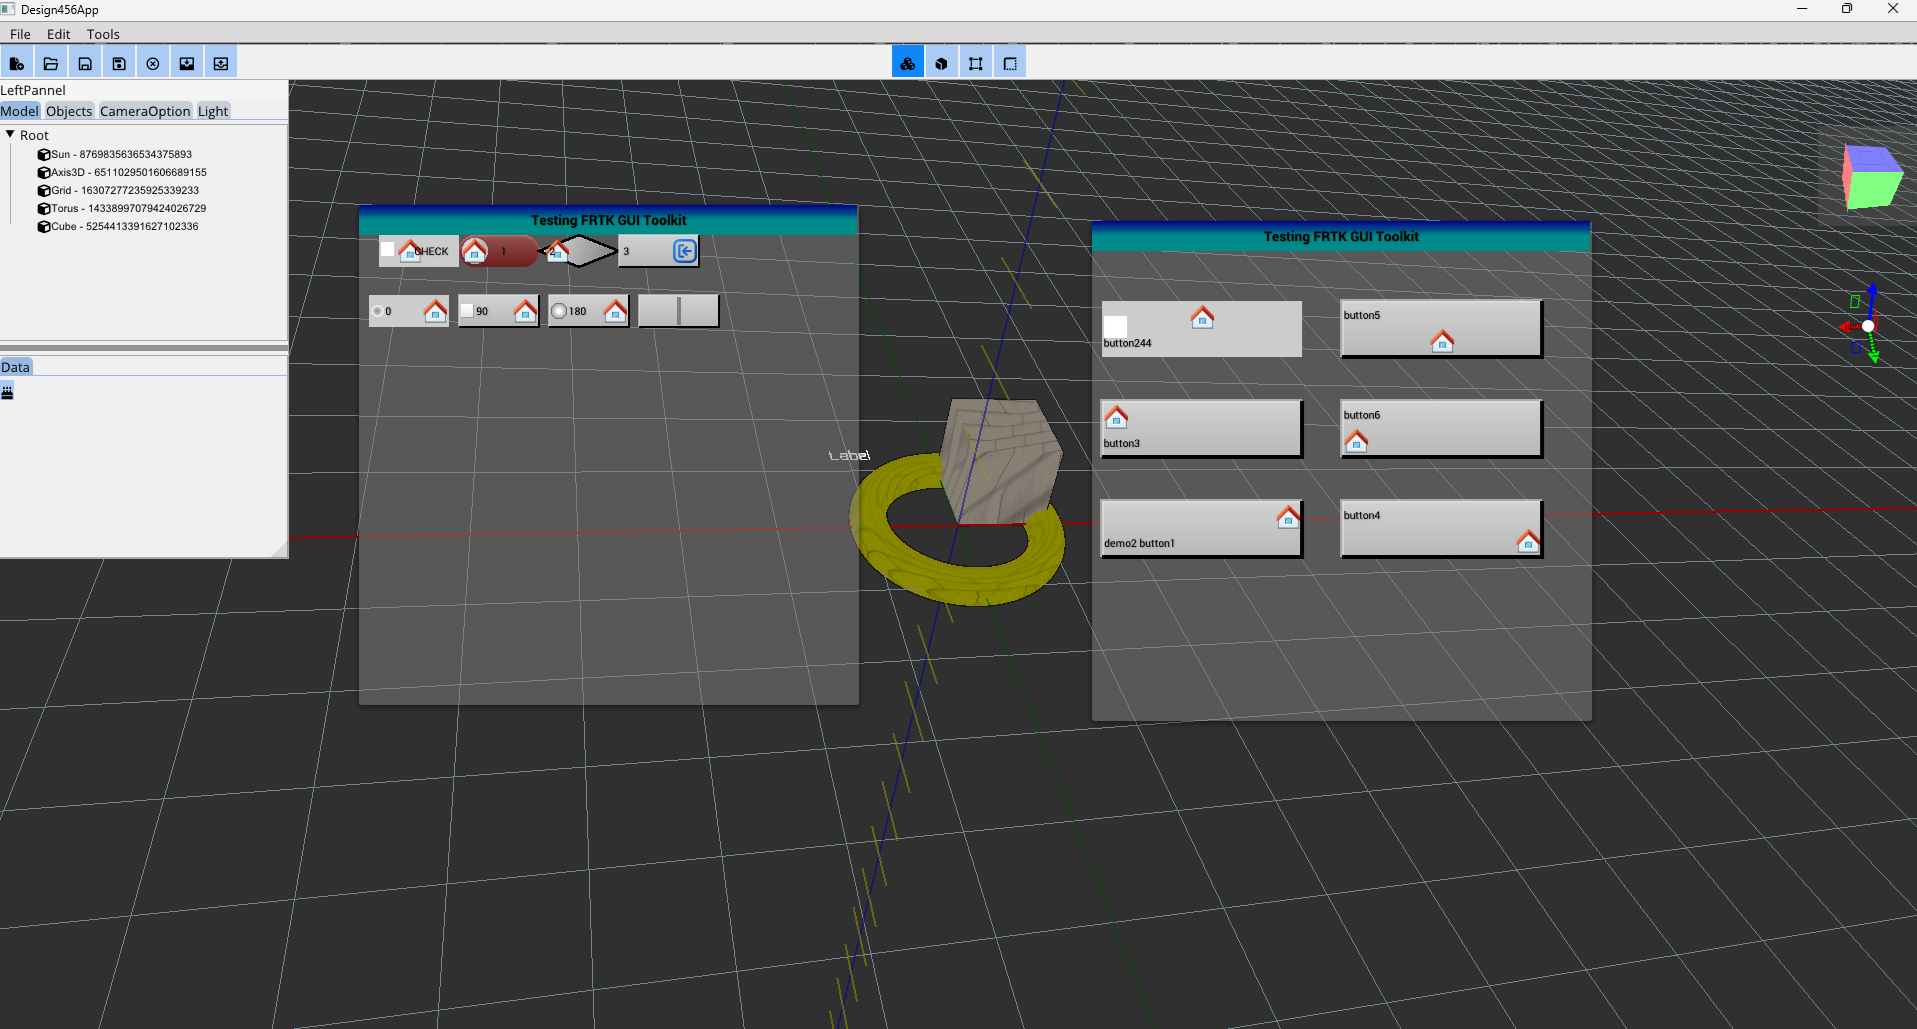
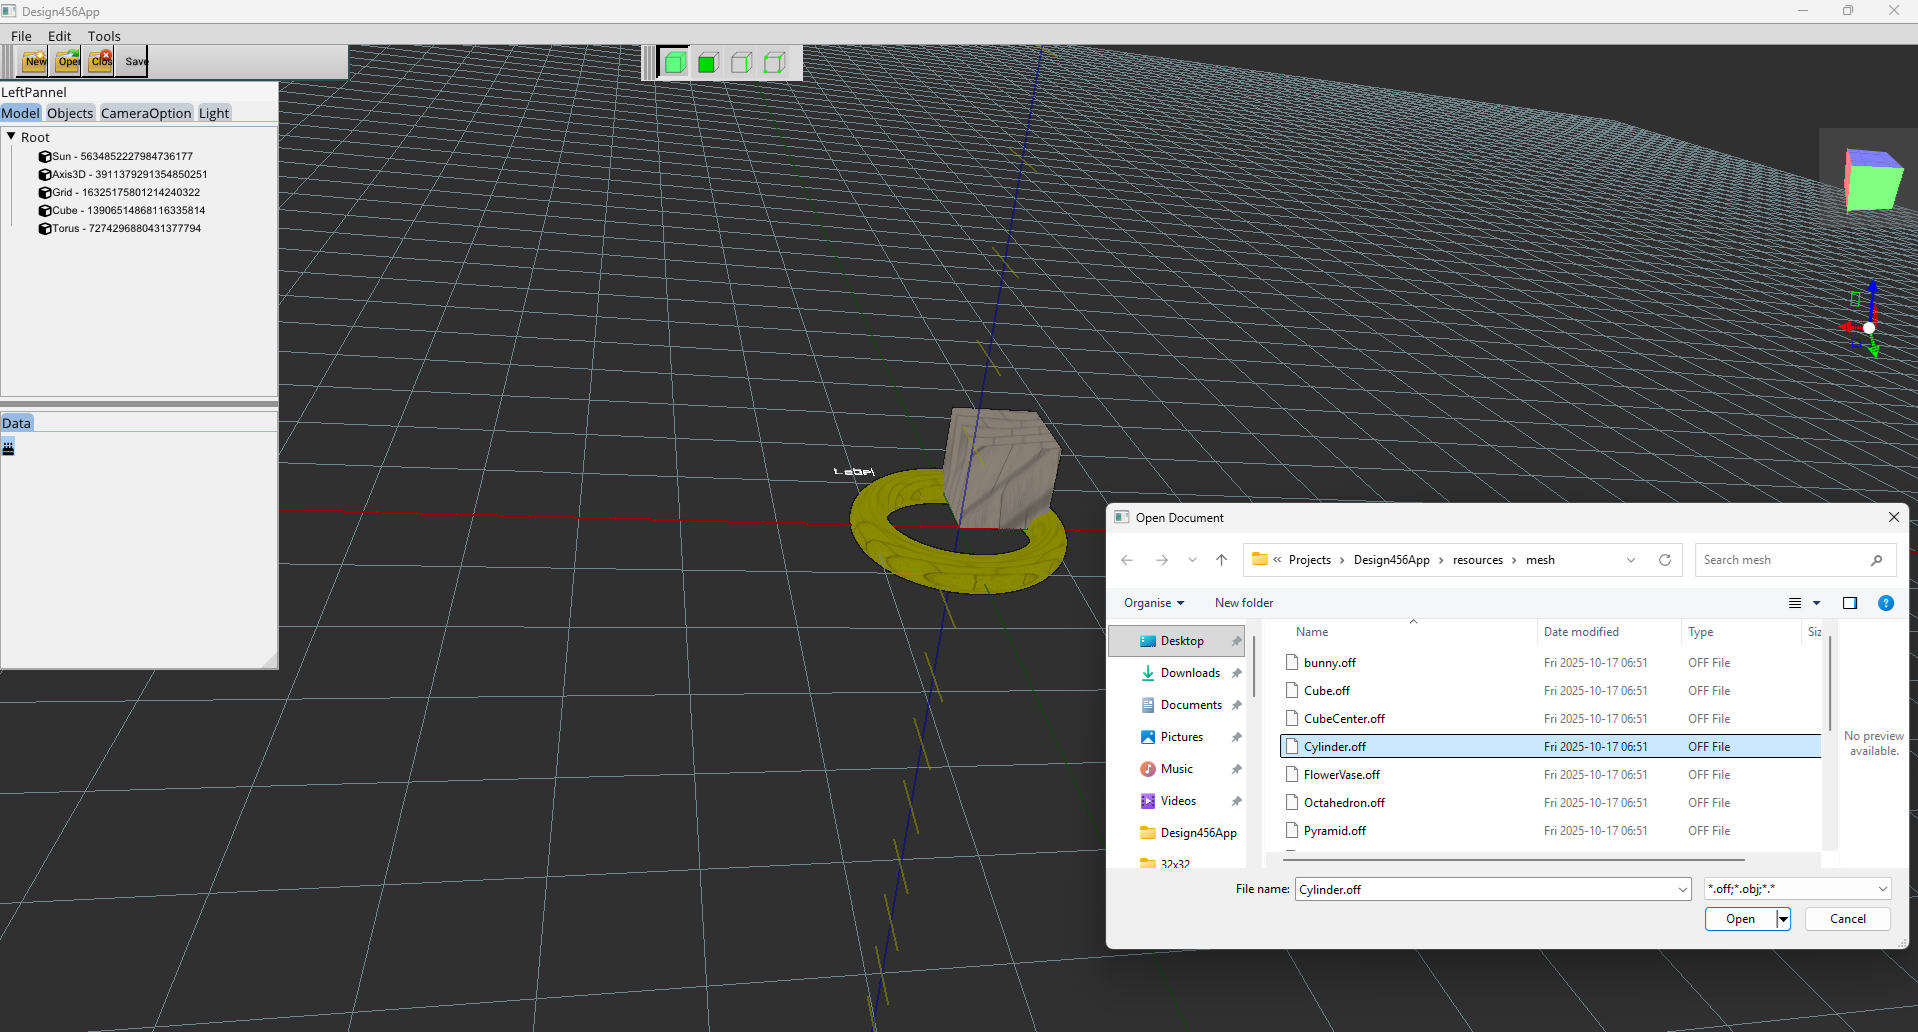
new screenshot, removing im-gui toolbar totally, using new toolbars, new opendialog- Fine tunings still is required

diff --git a/frtk/src/gui_widget/frtk_main_toolbar.cpp b/frtk/src/gui_widget/frtk_main_toolbar.cpp
@@ -31,6 +31,10 @@
 #include <fr_window.h>
 
 namespace FR {
+/*
+                        TOOLBARS CALLBACKS
+
+*/
     void Fr_Window::mainToolbar_callback(size_t index, void* data) {
         std::shared_ptr<Fr_Window> win = Fr_Window::getFr_Window();
         switch (index) {
@@ -94,20 +98,27 @@ namespace FR {
         }
         }
     }
+    //********************************************************************************************************************************************
+
+    /*
+                        TOOLBARS DEFINITIONS
+
+*/
+
     std::shared_ptr<Frtk_ToolBarWin> Fr_Window::createMainToolbar() {
         std::vector<toolbBTN_t> tools1 = {
-        {"New",                                                                                 // std::string lbl
-            "New",                                                                              //std::string name
-            {FRTK_TOOLBAR_BUTTON_HEGHT,FRTK_TOOLBAR_BUTTON_HEGHT},                              //dimSize_float_t size
-                iconPath + "Folder-Create-32x32.png",                                           //std::string icon
-                [this](Frtk_Widget* w) { this->mainToolbar_callback(FR_FILE_NEW); },            //Frtk_Widget::Callback callback_
-                FRTK_UP_BOX,                                                                    //WIDGTYPE boxType
-                "",                                                                             //std::string tooltips;  //not implemented y
+        {"New",                                                                         // std::string lbl
+        "New",                                                                          //std::string name
+        {FRTK_TOOLBAR_BUTTON_HEGHT,FRTK_TOOLBAR_BUTTON_HEGHT},                          //dimSize_float_t size
+        iconPath + "Folder-Create-32x32.png",                                           //std::string icon
+        [this](Frtk_Widget* w) { this->mainToolbar_callback(FR_FILE_NEW); },            //Frtk_Widget::Callback callback_
+        FRTK_UP_BOX,                                                                    //WIDGTYPE boxType
+        "",                                                                             //std::string tooltips;  //not implemented y
         },
         { "Open",
          "Open",
         {FRTK_TOOLBAR_BUTTON_HEGHT,FRTK_TOOLBAR_BUTTON_HEGHT},
-        iconPath + "Folder-Import-32x32.png",
+        iconPath + "Folder-Open-32x32.png",
         [this](Frtk_Widget* w) { this->mainToolbar_callback(FR_FILE_OPEN); },
         FRTK_UP_BOX,
         "" },
@@ -121,39 +132,43 @@ namespace FR {
         { "Save",
         "Save",
         {FRTK_TOOLBAR_BUTTON_HEGHT,FRTK_TOOLBAR_BUTTON_HEGHT},
-        iconPath + "Folder-Close-32x32.png",
+        iconPath + "Folder-Save-32x32.png",
         [this](Frtk_Widget* w) { this->mainToolbar_callback(FR_FILE_CLOSE); },
         FRTK_UP_BOX,
         "" },
     };
-    return std::make_shared<Frtk_ToolBarWin>(0.0f, y() + menuHeight(), 350, FRTK_TOOLBAR_HEIGHT, "", tools1, true);
+        std::shared_ptr<Frtk_ToolBarWin>tb1=std::make_shared<Frtk_ToolBarWin>(0.0f, y() + menuHeight(), 350, FRTK_TOOLBAR_HEIGHT, "", tools1, true);
+        tb1->widgetType(FRTK_TOOLBARWIN);
+        return tb1;
 }
 
 std::shared_ptr<Frtk_ToolBarWin> Fr_Window::createSelectionToolbar() {
     std::vector<toolbBTN_t> tools2 = {
-        {"Mesh",                                                                                            // std::string lbl
+        {"",                                                                                                // std::string lbl
         "Mesh",                                                                                             //std::string name
         {FRTK_TOOLBAR_BUTTON_HEGHT,FRTK_TOOLBAR_BUTTON_HEGHT},                                              //dimSize_float_t size
         iconPath + "SelectionModeBody.png",                                                                 //std::string icon
         [this](Frtk_Widget* w) { this->selectionToolbar_callback(FR_SELECTION_MESH); },                     //Frtk_Widget::Callback callback_
         FRTK_FLAT_BOX,                                                                                      //BOX_TYPE boxType
         ""},                                                                                                //std::string tooltips;  //not implemented y
-        {"Face",
+        {"",
         "Face",
         {FRTK_TOOLBAR_BUTTON_HEGHT,FRTK_TOOLBAR_BUTTON_HEGHT},
-        iconPath + "Folder-SelectionModeFace.png",
+        iconPath + "SelectionModeFace.png",
         [this](Frtk_Widget* w) { this->selectionToolbar_callback(FR_SELECTION_FACE); }, 
         FRTK_FLAT_BOX, 
         ""},
-        {"Edge",
+        {"",
         "Edge",
-        {FRTK_TOOLBAR_BUTTON_HEGHT,FRTK_TOOLBAR_BUTTON_HEGHT},iconPath + "SelectionModeEdges.png", 
+        {FRTK_TOOLBAR_BUTTON_HEGHT,FRTK_TOOLBAR_BUTTON_HEGHT},
+        iconPath + "SelectionModeEdges.png", 
         [this](Frtk_Widget* w) { this->selectionToolbar_callback(FR_SELECTION_EDGE);},
         FRTK_FLAT_BOX, 
         ""},
-        {"Vertex",
+        {"",
         "Vertex",
-        {FRTK_TOOLBAR_BUTTON_HEGHT,FRTK_TOOLBAR_BUTTON_HEGHT},iconPath + "SelectionModeVertex.png",
+        {FRTK_TOOLBAR_BUTTON_HEGHT,FRTK_TOOLBAR_BUTTON_HEGHT},
+        iconPath + "SelectionModeVertex.png",
         [this](Frtk_Widget* w) { this->selectionToolbar_callback(FR_SELECTION_VERTEX);},
         FRTK_FLAT_BOX,
         ""},
@@ -169,6 +184,8 @@ std::shared_ptr<Frtk_ToolBarWin> Fr_Window::createSelectionToolbar() {
     for (size_t i = 0; i < childrens; ++i) {
         tb2->m_guiWindow->getChildAt(i)->cellStyle(FR_IMG_LEFT_TO_TEXT); //Make both be in the center;
     }
+    tb2->widgetType(FRTK_TOOLBARWIN_TOOGLE);
+    //tb2->dockable(false); //don't allow docking - this should be a static toolbar in the middle of the screen.
     return tb2;
 }
 }

diff --git a/frtk/src/gui_widget/frtk_toolbarwin.cpp b/frtk/src/gui_widget/frtk_toolbarwin.cpp
@@ -40,7 +40,7 @@ namespace FR {
     Frtk_ToolBarWin::Frtk_ToolBarWin(float X, float Y, float W, float H, std::string lbl,
         const std::vector<toolbBTN_t>& tools, bool horizontal, BOX_TYPE b, WIDGTYPE btnType) : Frtk_Window(X, Y, W, H, lbl, b, false),
         m_dockable(false), m_padding(1.0f), m_horizontal(horizontal), m_parent(NULL), m_buttonsType(btnType) {
-        m_boxType = FRTK_FLAT_BOX;
+        m_boxType = b;
         init();
         m_wdgType = FRTK_TOOLBARWIN;
         if (m_horizontal)
@@ -127,7 +127,7 @@ namespace FR {
                 btnDim.pos.y += item.size.h + m_padding;
             }
             btn->wdgImage(item.icon);
-            btn->cellStyle(FR_IMG_OVER_TEXT_CENTER);
+            btn->cellStyle(FR_IMG_LEFT_TO_TEXT);
             btn->set_callback(item.callback_);
             m_guiWindow->addChild(btn);
         }
@@ -345,15 +345,12 @@ namespace FR {
         float winWidth = m_mainWindow->w();
         float winHeight = m_mainWindow->h();
 
-        // Check edges
+
         bool snapLeft = (m_x <= snapThreshold);
         bool snapRight = (m_x + m_w >= winWidth - snapThreshold);
         bool snapTop = (m_y <= snapThreshold);
         bool snapBottom = (m_y + m_w >= winHeight - snapThreshold);
 
-        // FRTK_CORE_INFO("I... {} {}", mouseOnDockBtn, mouseInsideWindow);
-
-        FRTK_CORE_INFO("{} ", m_dragging);
         if (dockingBTN() && ev == FR_LEFT_DRAG_PUSH) {
             m_dragging = true;
         }
@@ -408,25 +405,31 @@ namespace FR {
             size_t index = 0;
             size_t noOfChildren = m_guiWindow->getChildrenNo();
             bool allZero = false;
-            for (size_t i = 0; i < noOfChildren; ++i) {
-                auto wdg = m_guiWindow->getChildAt(i);
-                std::shared_ptr<Frtk_Button> btn = std::dynamic_pointer_cast<Frtk_Button>(wdg);
-                if (ev == FR_LEFT_PUSH) {
-                    if (btn->isMouse_inside()) {
-                        if (btn->value() == 1) {
-                            ;
+            if (m_wdgType == FRTK_TOOLBARWIN_TOOGLE) {
+                //ONLY ACTIVE WHEN WE HAVE TOOGLE BUTTONS TOOLBAR  
+                for (size_t i = 0; i < noOfChildren; ++i) {
+                    auto wdg = m_guiWindow->getChildAt(i);
+                    std::shared_ptr<Frtk_Button> btn = std::dynamic_pointer_cast<Frtk_Button>(wdg);
+                    if (ev == FR_LEFT_PUSH) {
+                        if (btn->isMouse_inside()) {
+                            if (btn->value() == 1) {
+                                ;
+                            }
+                            else {
+                                btn->value(1);
+                                btn->activate(); //do-callback
+                            }
                         }
                         else {
-                            btn->value(1);
+                            btn->value(0);
                         }
-                    }
-                    else {
-                        btn->value(0);
                     }
                 }
             }
+            else {
+                return Frtk_Window::handle(ev);
+            }
         }
-
         return result;
     }
 }

diff --git a/frtk/src/fr_core.h b/frtk/src/fr_core.h
@@ -446,9 +446,9 @@ You call window->hide()
         FRTK_VSCROLL,
         FRTK_HSCROLL,
         FRTK_IMAGE,
-        FRTK_TOOLBAR,
-        FRTK_TOOLBARWIN,
-        FRTK_TOOLBARWIN_TOOGLE,
+        FRTK_TOOLBAR,           //No separate FRTK windows will be created
+        FRTK_TOOLBARWIN,        //Separate FRTK Window is created 
+        FRTK_TOOLBARWIN_TOOGLE, //Separate FRTK Window is created - but buttons are TOGGLE buttons
         FRTK_TOOLBAR_BUTTON,
     };
 

diff --git a/frtk/src/gui_widget/frtk_widget.cpp b/frtk/src/gui_widget/frtk_widget.cpp
@@ -460,4 +460,12 @@ namespace FR {
     dimPos_float_t Frtk_Widget::mainGui() const {
         throw NotImplementedException();
     }
+    WIDGTYPE Frtk_Widget::widgetType() const
+    {
+        return m_wdgType;
+    }
+    void Frtk_Widget::widgetType(WIDGTYPE nVal)
+    {
+        m_wdgType = nVal;
+    }
 }

diff --git a/frtk/src/gui_widget/frtk_widget.h b/frtk/src/gui_widget/frtk_widget.h
@@ -196,6 +196,8 @@ namespace FR {
         void set_callback(Callback cb);
         
         virtual dimPos_float_t mainGui() const;
+        WIDGTYPE widgetType() const;
+        void widgetType(WIDGTYPE nVal);
 
     protected:
         virtual void draw(void);
